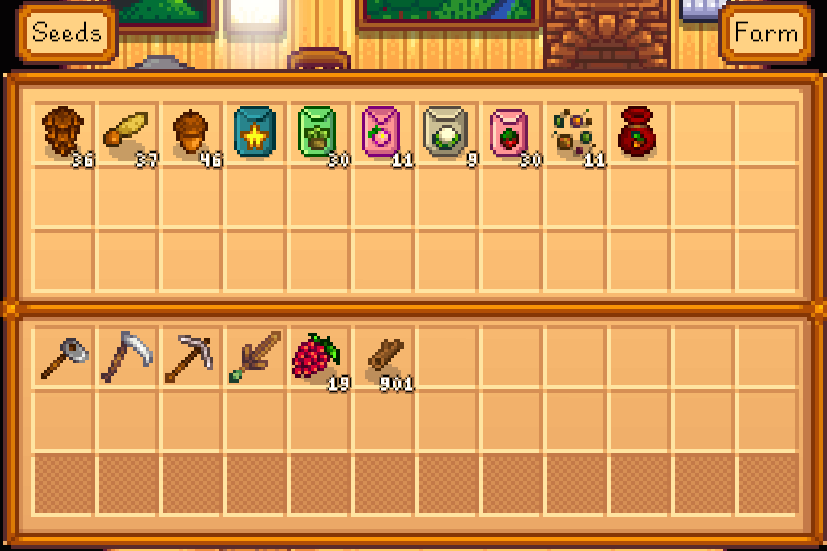
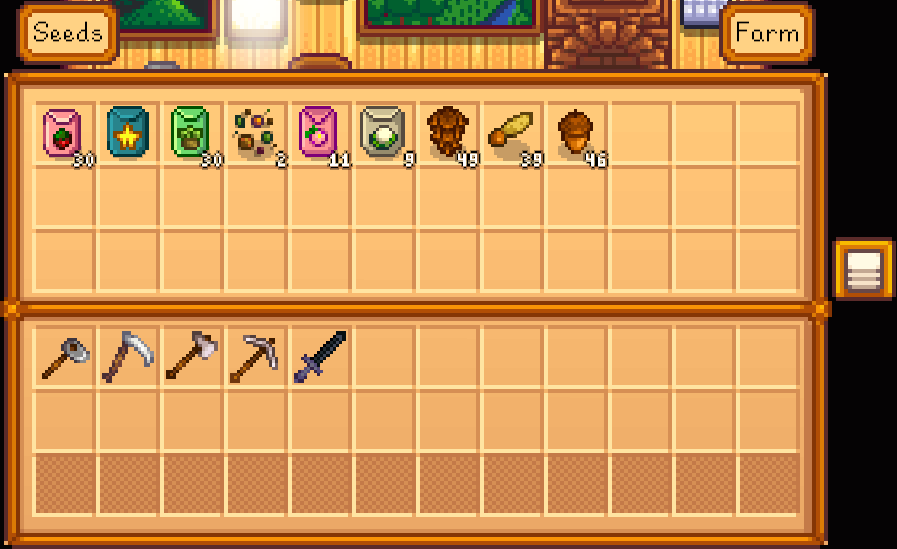
add organize button

diff --git a/ChestsAnywhere/Components/AccessChestMenu.cs b/ChestsAnywhere/Components/AccessChestMenu.cs
@@ -1,9 +1,11 @@
 using System;
 using System.Linq;
 using ChestsAnywhere.Framework;
+using Microsoft.Xna.Framework;
 using Microsoft.Xna.Framework.Graphics;
 using Microsoft.Xna.Framework.Input;
 using StardewValley;
+using StardewValley.Menus;
 
 namespace ChestsAnywhere.Components
 {
@@ -13,7 +15,11 @@ namespace ChestsAnywhere.Components
         /*********
         ** Properties
         *********/
-        private int Count;
+        /****
+        ** Data
+        ****/
+        /// <summary>The number of draw cycles since the menu was initialise.</summary>
+        private int DrawCount;
 
         /// <summary>Whether the chest dropdown is open.</summary>
         private bool ChestListOpen;
@@ -30,6 +36,15 @@ namespace ChestsAnywhere.Components
         /// <summary>The selected location.</summary>
         private GameLocation SelectedLocation => this.SelectedChest.Location;
 
+        /// <summary>The keyboard input map.</summary>
+        private readonly InputMapConfiguration<Keys> Keyboard;
+
+        /// <summary>The controller input map.</summary>
+        private readonly InputMapConfiguration<Buttons?> Controller;
+
+        /****
+        ** UI
+        ****/
         /// <summary>The font with which to render text.</summary>
         private readonly SpriteFont Font = Game1.smallFont;
 
@@ -45,12 +60,8 @@ namespace ChestsAnywhere.Components
         /// <summary>The location selector dropdown.</summary>
         private DropList<GameLocation> LocationSelector;
 
-        /// <summary>The keyboard input map.</summary>
-        private readonly InputMapConfiguration<Keys> Keyboard;
-
-        /// <summary>The controller input map.</summary>
-        private readonly InputMapConfiguration<Buttons?> Controller;
-
+        /// <summary>The button which sorts the chest items.</summary>
+        private ClickableTextureComponent OrganizeButton;
 
         /*********
         ** Accessors
@@ -76,13 +87,14 @@ namespace ChestsAnywhere.Components
             this.Locations = this.Chests.Select(p => p.Location).Distinct().ToArray();
             this.InitialiseTabs();
             this.InitialiseSelectors();
+            this.InitialiseTools();
         }
 
         /// <summary>The method invoked when the player presses a key.</summary>
         /// <param name="input">The key that was pressed.</param>
         public override void receiveKeyPress(Keys input)
         {
-            if (this.Count <= 10)
+            if (this.DrawCount <= 10)
                 return;
 
             if (input == this.Keyboard.Toggle || input == Keys.Escape)
@@ -91,21 +103,25 @@ namespace ChestsAnywhere.Components
                 this.SelectPreviousChest();
             else if (input == this.Keyboard.NextChest)
                 this.SelectNextChest();
+            else if (input == this.Keyboard.SortItems)
+                this.SortChestItems();
         }
 
         /// <summary>The method invoked when the player presses a controller button.</summary>
         /// <param name="input">The button that was pressed.</param>
         public override void receiveGamePadButton(Buttons input)
         {
-            if (this.Count <= 10)
+            if (this.DrawCount <= 10)
                 return;
 
-            if(input == this.Controller.Toggle)
+            if (input == this.Controller.Toggle)
                 this.exitThisMenuNoSound();
             else if (input == this.Controller.PrevChest)
                 this.SelectPreviousChest();
-            else if(input == this.Controller.NextChest)
+            else if (input == this.Controller.NextChest)
                 this.SelectNextChest();
+            else if (input == this.Controller.SortItems)
+                this.SortChestItems();
         }
 
         /// <summary>The method invoked when the player scrolls the dropdown using the mouse wheel.</summary>
@@ -125,6 +141,8 @@ namespace ChestsAnywhere.Components
         public override void receiveLeftClick(int x, int y, bool playSound = true)
         {
             base.receiveLeftClick(x, y, playSound);
+
+            // chest dropdown
             if (this.ChestListOpen)
             {
                 if (!this.ChestSelector.containsPoint(x, y))
@@ -136,6 +154,8 @@ namespace ChestsAnywhere.Components
                 if (chest != null)
                     this.SelectChest(chest);
             }
+
+            // location dropdown
             else if (this.LocationListOpen)
             {
                 if (!this.LocationSelector.containsPoint(x, y))
@@ -149,23 +169,31 @@ namespace ChestsAnywhere.Components
                     this.InitialiseSelectors();
                 }
             }
+
+            // chest tab
             else if (this.ChestTab.containsPoint(x, y))
             {
                 this.ChestListOpen = true;
                 this.IsDisabled = true;
             }
+
+            // location tab
             else if (this.LocationTab?.containsPoint(x, y) == true)
             {
                 this.LocationListOpen = true;
                 this.IsDisabled = true;
             }
+
+            // organize button
+            else if (this.OrganizeButton.containsPoint(x, y))
+                this.SortChestItems();
         }
 
         /// <summary>Render the UI.</summary>
         /// <param name="sprites">The sprites to render.</param>
         public override void draw(SpriteBatch sprites)
         {
-            this.Count++;
+            this.DrawCount++;
 
             // chest with inventory menu
             base.draw(sprites);
@@ -181,6 +209,9 @@ namespace ChestsAnywhere.Components
             if (this.LocationListOpen)
                 this.LocationSelector.Draw(sprites);
 
+            // sort button
+            this.OrganizeButton.draw(sprites);
+
             // mouse
             this.drawMouse(sprites);
         }
@@ -189,6 +220,13 @@ namespace ChestsAnywhere.Components
         /*********
         ** Private methods
         *********/
+        /// <summary>Initialise the inventory tools.</summary>
+        private void InitialiseTools()
+        {
+            // organize button
+            this.OrganizeButton = new ClickableTextureComponent(new Rectangle(this.xPositionOnScreen + width, this.yPositionOnScreen + height / 3 + Game1.pixelZoom * 2, Game1.tileSize, Game1.tileSize), "", "Organize", Game1.mouseCursors, new Rectangle(162, 440, 16, 16), Game1.pixelZoom);
+        }
+
         /// <summary>Initialise the chest and location selectors.</summary>
         private void InitialiseSelectors()
         {

diff --git a/ChestsAnywhere/Framework/Configuration.cs b/ChestsAnywhere/Framework/Configuration.cs
@@ -27,13 +27,15 @@ namespace ChestsAnywhere.Framework
             {
                 Toggle = Keys.B.ToString(),
                 PrevChest = Keys.Left.ToString(),
-                NextChest = Keys.Right.ToString()
+                NextChest = Keys.Right.ToString(),
+                SortItems = ""
             };
             this.Controller = new InputMapConfiguration<string>
             {
                 Toggle = "",
                 PrevChest = "",
-                NextChest = ""
+                NextChest = "",
+                SortItems = ""
             };
         }
 
@@ -52,7 +54,8 @@ namespace ChestsAnywhere.Framework
             {
                 Toggle = Enum.TryParse(this.Keyboard.Toggle, out parsed) ? parsed : Keys.B,
                 PrevChest = Enum.TryParse(this.Keyboard.PrevChest, out parsed) ? parsed : Keys.Left,
-                NextChest = Enum.TryParse(this.Keyboard.NextChest, out parsed) ? parsed : Keys.Right
+                NextChest = Enum.TryParse(this.Keyboard.NextChest, out parsed) ? parsed : Keys.Right,
+                SortItems = Enum.TryParse(this.Keyboard.SortItems, out parsed) ? parsed : Keys.None
             };
         }
 
@@ -64,7 +67,8 @@ namespace ChestsAnywhere.Framework
             {
                 Toggle = Enum.TryParse(this.Controller.Toggle, out parsed) ? parsed : null as Buttons?,
                 PrevChest = Enum.TryParse(this.Controller.PrevChest, out parsed) ? parsed : null as Buttons?,
-                NextChest = Enum.TryParse(this.Controller.NextChest, out parsed) ? parsed : null as Buttons?
+                NextChest = Enum.TryParse(this.Controller.NextChest, out parsed) ? parsed : null as Buttons?,
+                SortItems = Enum.TryParse(this.Controller.SortItems, out parsed) ? parsed : null as Buttons?
             };
         }
     }

diff --git a/ChestsAnywhere/Components/ChestWithInventory.cs b/ChestsAnywhere/Components/ChestWithInventory.cs
@@ -263,6 +263,13 @@ namespace ChestsAnywhere.Components
         /*********
         ** Private methods
         *********/
+        /// <summary>Trigger the chest item sort behaviour.</summary>
+        public void SortChestItems()
+        {
+            ItemGrabMenu.organizeItemsInList(this.ChestItems);
+            Game1.playSound("Ship");
+        }
+
         /// <summary>Try to add an item to the player or chest inventory, and return the remaining stack.</summary>
         /// <param name="itemToPlace">The item to add.</param>
         /// <param name="toPlayer">Whether to add the item to the player inventory (otherwise, to the chest).</param>

diff --git a/ChestsAnywhere/Framework/InputMapConfiguration.cs b/ChestsAnywhere/Framework/InputMapConfiguration.cs
@@ -12,5 +12,8 @@ namespace ChestsAnywhere.Framework
 
         /// <summary>The control which navigates to the next chest.</summary>
         public T NextChest { get; set; }
+
+        /// <summary>The control which sorts items in the chest.</summary>
+        public T SortItems { get; set; }
     }
 }

diff --git a/README.md b/README.md
@@ -46,10 +46,11 @@ and add controller bindings if you have one (see [valid buttons](https://msdn.mi
 * 1.2.0
   * Chests are now sorted alphabetically
   * Chests can now be sorted manually
-  * Can now navigate between chests using the keyboard or controller
+  * Added item tooltips
+  * Added organize button
+  * Added controller support
+  * Can now navigate between chests using the keyboard/controller
   * Keyboard mapping is now configurable
-  * Controller buttons are now supported
-  * Item tooltips now work
   * Location tab is now hidden if all your chests are in one place
 * 1.1.0
   * Reworked UI
